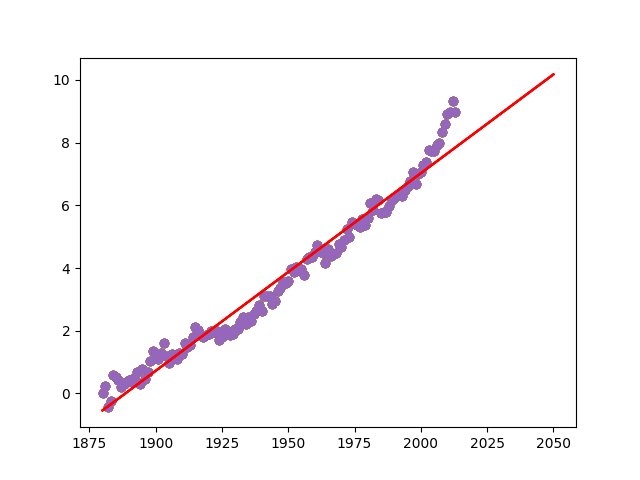
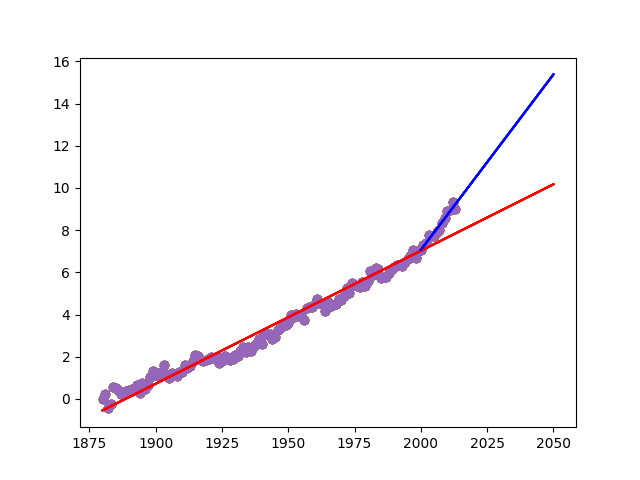
passed test_plot_lines

diff --git a/Data Analysis with Python/sea-level-predictor/sea_level_predictor.py b/Data Analysis with Python/sea-level-predictor/sea_level_predictor.py
@@ -12,12 +12,16 @@ def draw_plot():
 
 	# Create first line of best fit
 	line1 = linregress(df['Year'],df['CSIRO Adjusted Sea Level'])
-	future_years = range(1880, 2051)
-	future_predictions = [line1.intercept + line1.slope*year for year in future_years]
-	plt.plot(future_years, future_predictions, color='red')
+	historic_years = range(1880, 2051)
+	historic_predictions = [line1.intercept + line1.slope*year for year in historic_years]
+	plt.plot(historic_years, historic_predictions, color='red')
 
 	# Create second line of best fit
-
+	recent_data = df[df['Year']>=2000]
+	recent_years = range(2000,2051)
+	line2 = linregress(recent_data['Year'], recent_data['CSIRO Adjusted Sea Level'])
+	recent_predictions = [line2.intercept + line2.slope*year for year in recent_years]
+	plt.plot(recent_years, recent_predictions, color='blue')
 
 	# Add labels and title
 
